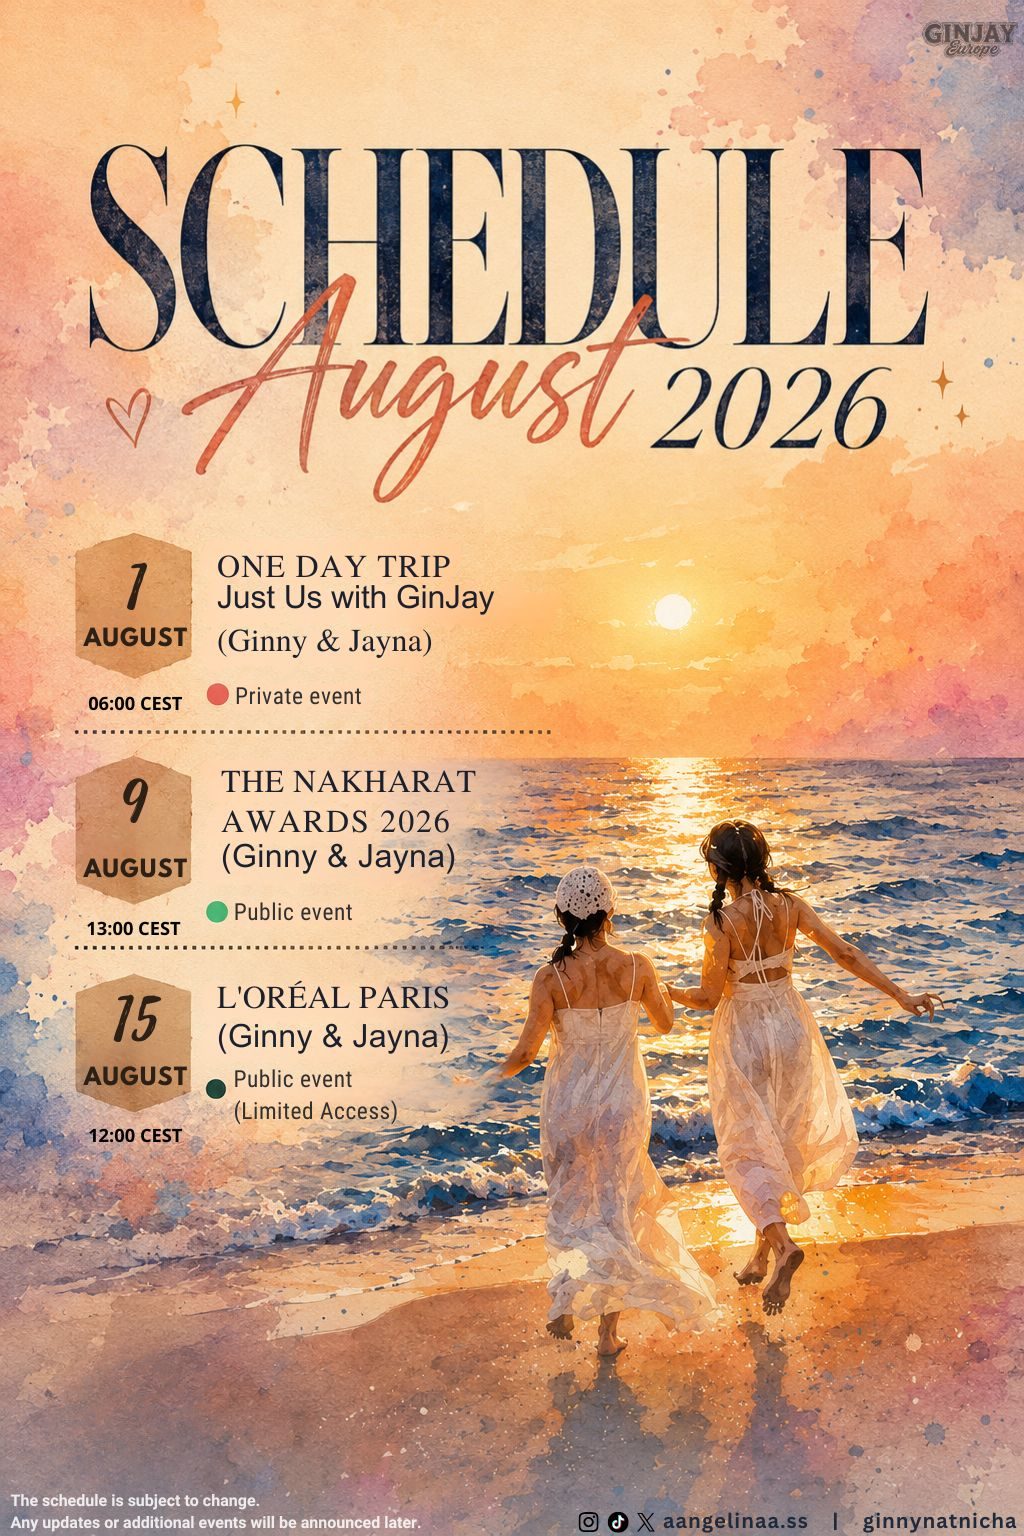
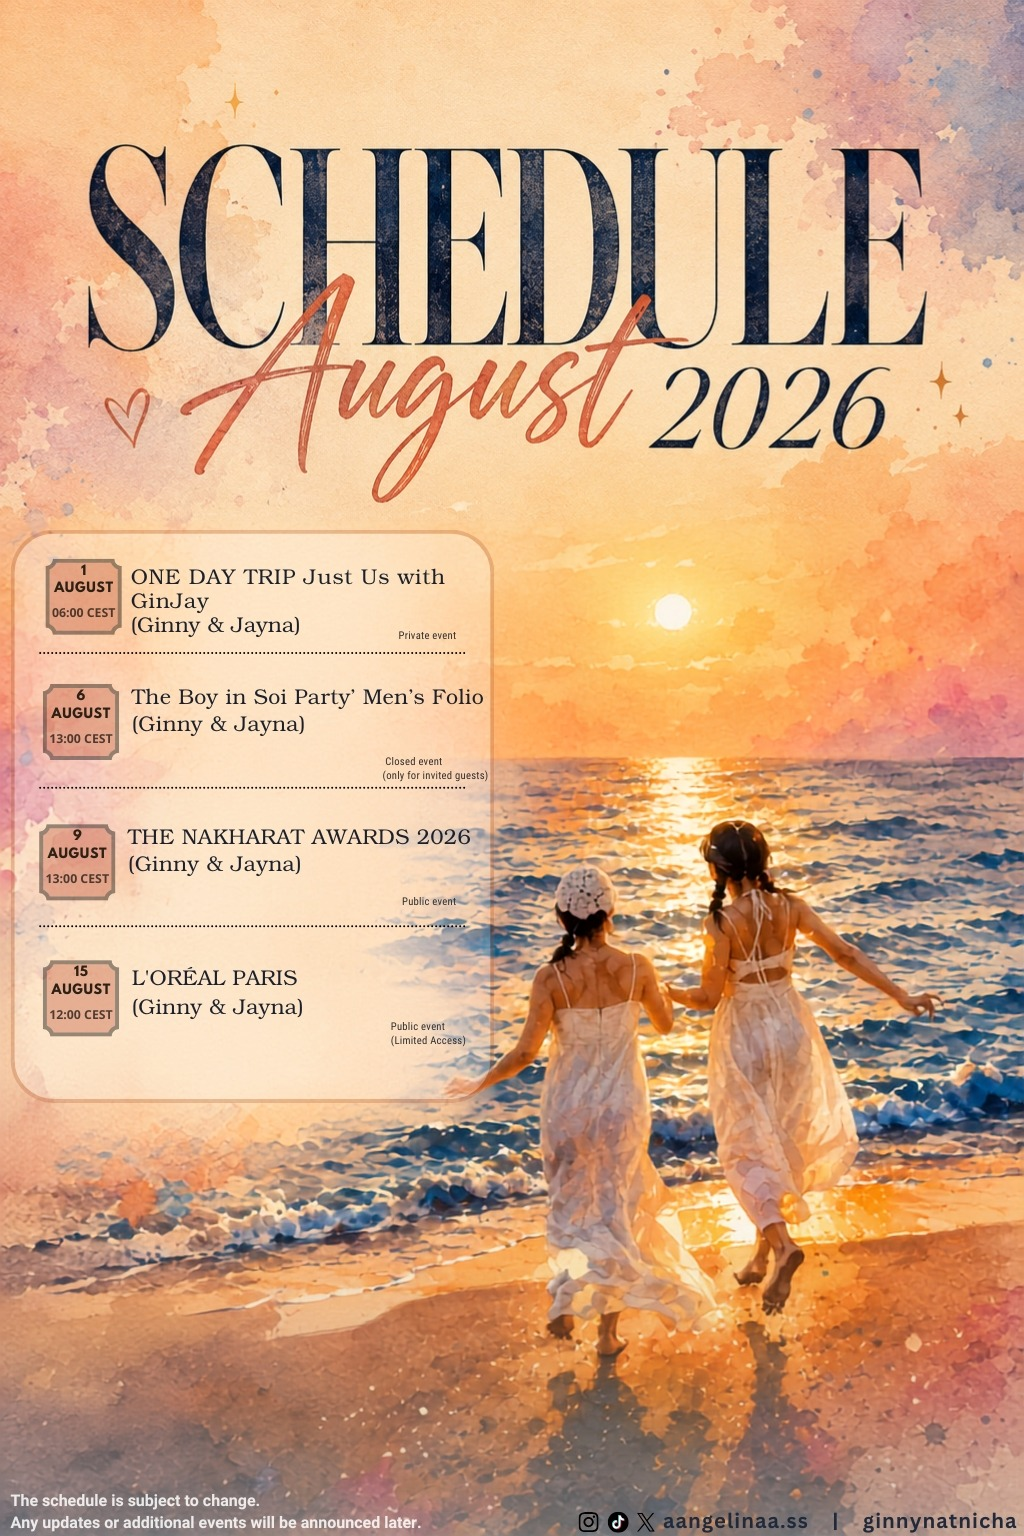
Update August schedule and poster

diff --git a/src/data/schedule.js b/src/data/schedule.js
@@ -16,6 +16,15 @@ export const currentSchedule = {
     },
     {
       id: 2,
+      date: "6 August",
+      title: "The Boy in Soi Party – Men’s Folio",
+      artist: "Ginny & Jayna",
+      type: "Closed event",
+      time: "13:00 CEST",
+      details: ["Only for invited guests"],
+    },
+    {
+      id: 3,
       date: "9 August",
       title: "The Nakharat Awards 2026",
       artist: "Ginny & Jayna",
@@ -24,7 +33,7 @@ export const currentSchedule = {
       details: [],
     },
     {
-      id: 3,
+      id: 4,
       date: "15 August",
       title: "L’Oréal Paris",
       artist: "Ginny & Jayna",
